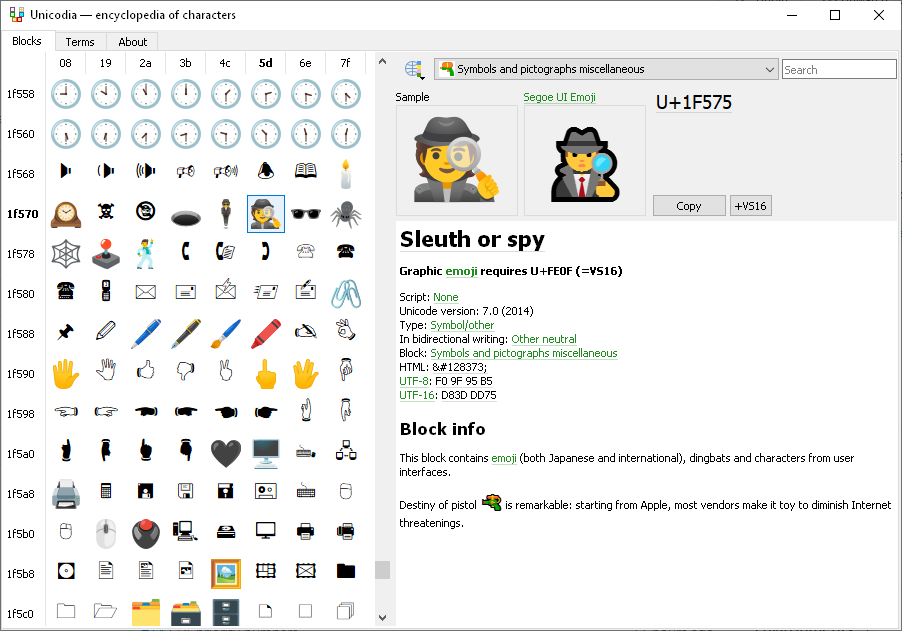
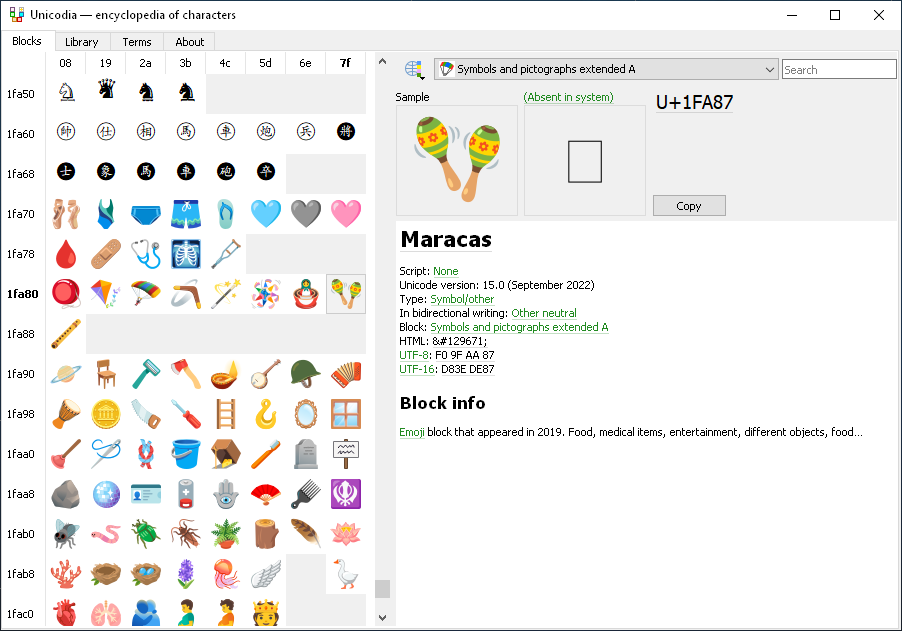
Site!

diff --git a/docs/index.htm b/docs/index.htm
@@ -26,8 +26,8 @@ h1,h2,h3,h4,h5,h6 {
      <td><h3><a href='https://github.com/Mercury13/unicodia/releases'>Качать здесь</a></h3>
      <td><h3><a href='https://github.com/Mercury13/unicodia/releases'>Download here</a></h3>
 	<tr>
-     <td><b>Есть Подборки и немалая часть Юникода 15.</b>
-     <td><b>Library and large part of Unicode 15 are out.</b>
+     <td><b>Есть эмодзи 15, локализованы Подборки.</b>
+     <td><b>Emoji 15 is here, localized Library.</b>
 	<tr>
 	 <td colspan='2' style='text-align:center'><img src='pix/shot1.png' alt='screenshot'>
 	<tr>
@@ -60,6 +60,8 @@ h1,h2,h3,h4,h5,h6 {
 	  <p>Её сделали, когда существовали только однобайтовые кодировки и нестандартные шрифты. Она поддерживает Юникод, но сам принцип поиска&nbsp;— сначала найти шрифт, а потом в нём символ&nbsp;— это ещё из Windows 3.1. Юникодия устроена наоборот: ищем символ и проверяем, кто из шрифтов его поддерживает.
 	 <td><h2>Why is built-in Character Map so bad?</h2>
 	  <p>It was made when single-byte encodings and non-standard fonts were the only option. It supports Unicode, but the core principle&nbsp;— find font, then character in it&nbsp;— is back from Windows 3.1. Unicodia works conversely: first find character, then check which fonts support it.
+	<tr>
+	 <td colspan='2' style='text-align:center'><img src='pix/shot2.png' alt='screenshot'>
 	<tr>
 	 <td><h2>Почему настольная программа?</h2>
 	  <p>Я настольный программист. И гигантская таблица просто медленная в вебе. И никто не знает, что делать с гигантскими ККЯ-шрифтами, некоторые из которых даже не открываются в редакторе.
